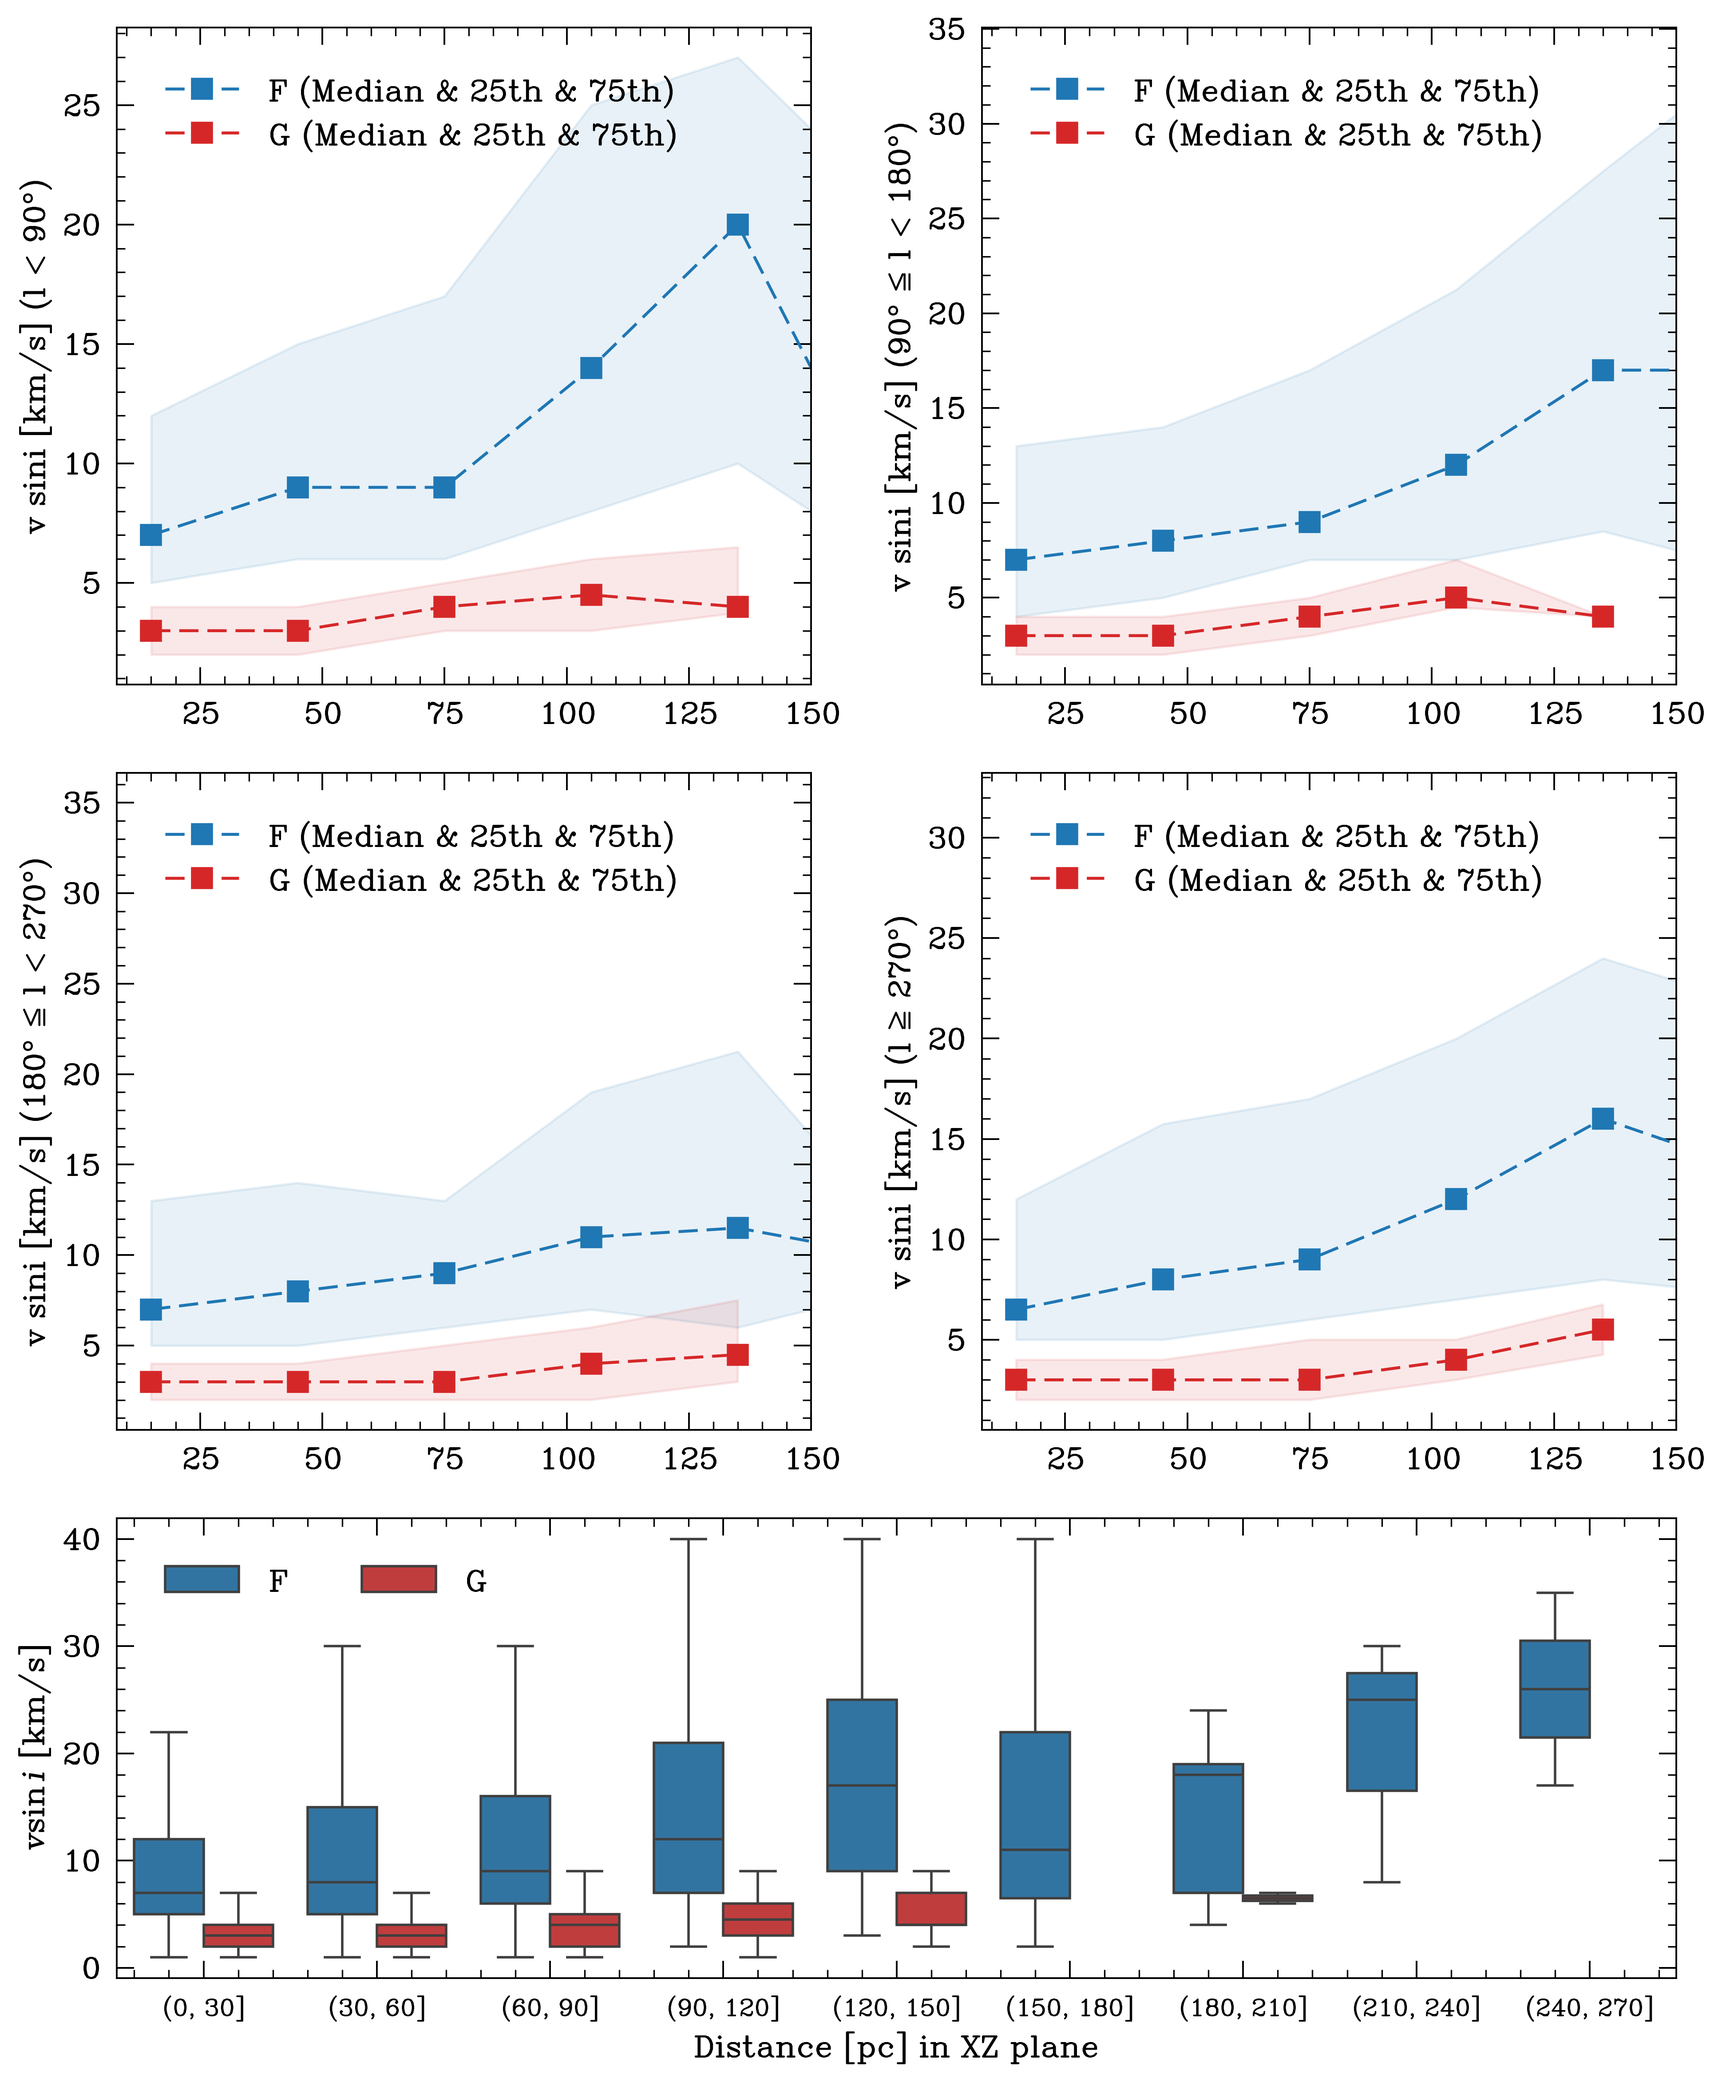
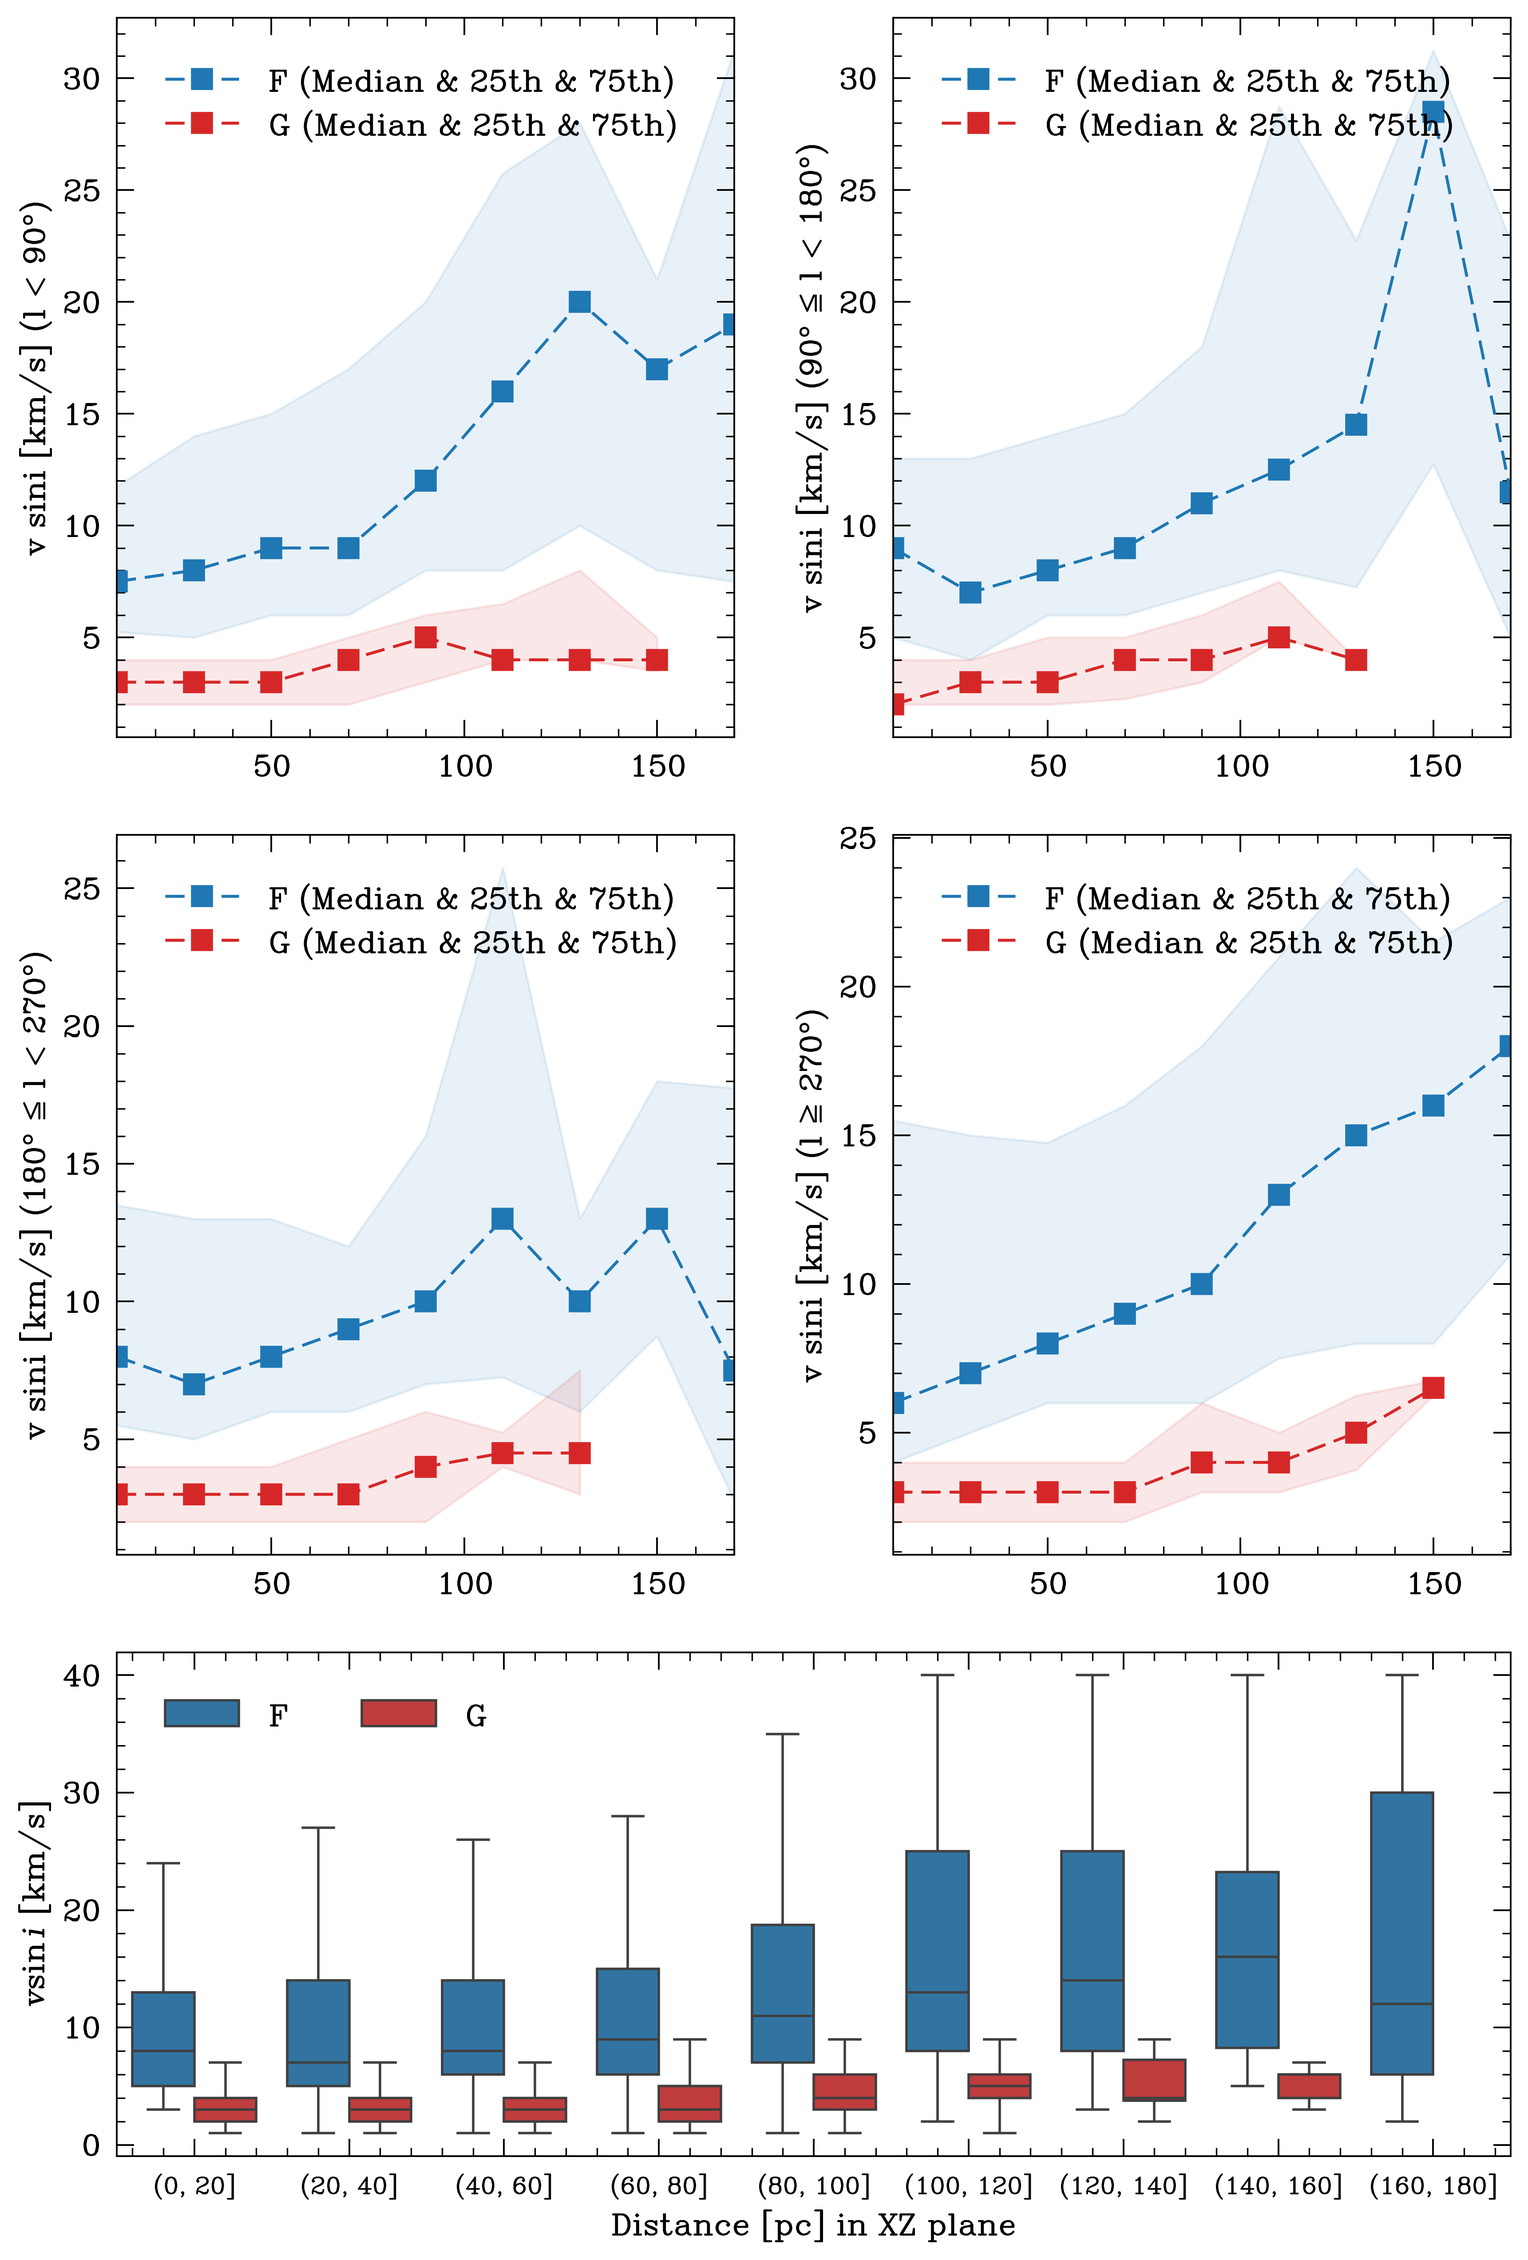
change the distance bins

diff --git a/main.py b/main.py
@@ -10,7 +10,7 @@ from functions import *
 TC = 20                         # Increment value
 UL = 150                        # Upper limit of parameter interval
 DATA_SELECTION = 'G'          # Options: 'F', 'G', 'ALL'
-PLANE = 'XZ'                    # Options: 'XY', 'XZ', 'ZY'
+PLANE = 'ZY'                    # Options: 'XY', 'XZ', 'ZY'
 B = 1000                        # Number of bootstrap samples
 INTERVAL = 1                    # Grid interval
 CL = 95                         # Confidence level
@@ -390,7 +390,7 @@ print(f">> Image successfully saved as 'fig7_{DATA_SELECTION}_{PLANE}.png' in {O
 
 ################################### FIGURE 8 ###################################
 
-bins_range = np.arange(0, 300, 30)  # Distance bins
+bins_range = np.arange(0, 200, 20)  # Distance bins
 
 def process_data(data, PLANE):
     data_copy = data.copy()

diff --git a/functions/plotting.py b/functions/plotting.py
@@ -142,7 +142,7 @@ def plotvsini(combined_data, filters, ylabels, PLANE, figure_number, OUTDIR):
     Plots vsini subplots based on filters and labels for a given variable (GLON or GLAT).
     """
     # Create subplots for combined data
-    fig = plt.figure(figsize=(10, 12))
+    fig = plt.figure(figsize=(9, 13))
     gs = fig.add_gridspec(3, 2, height_ratios=[1, 1, 0.7])
     axes = [fig.add_subplot(gs[i, j]) for i in range(2) for j in range(2)]
 
@@ -161,7 +161,7 @@ def plotvsini(combined_data, filters, ylabels, PLANE, figure_number, OUTDIR):
         
         ax.set_ylabel(f"v sini [km/s] {ylabel}")
         ax.legend(loc="upper left")
-        ax.set_xlim(8, 150)
+        ax.set_xlim(10, 170)
 
     # Boxplot combining F and G datasets
     ax_box = fig.add_subplot(gs[2, :])
